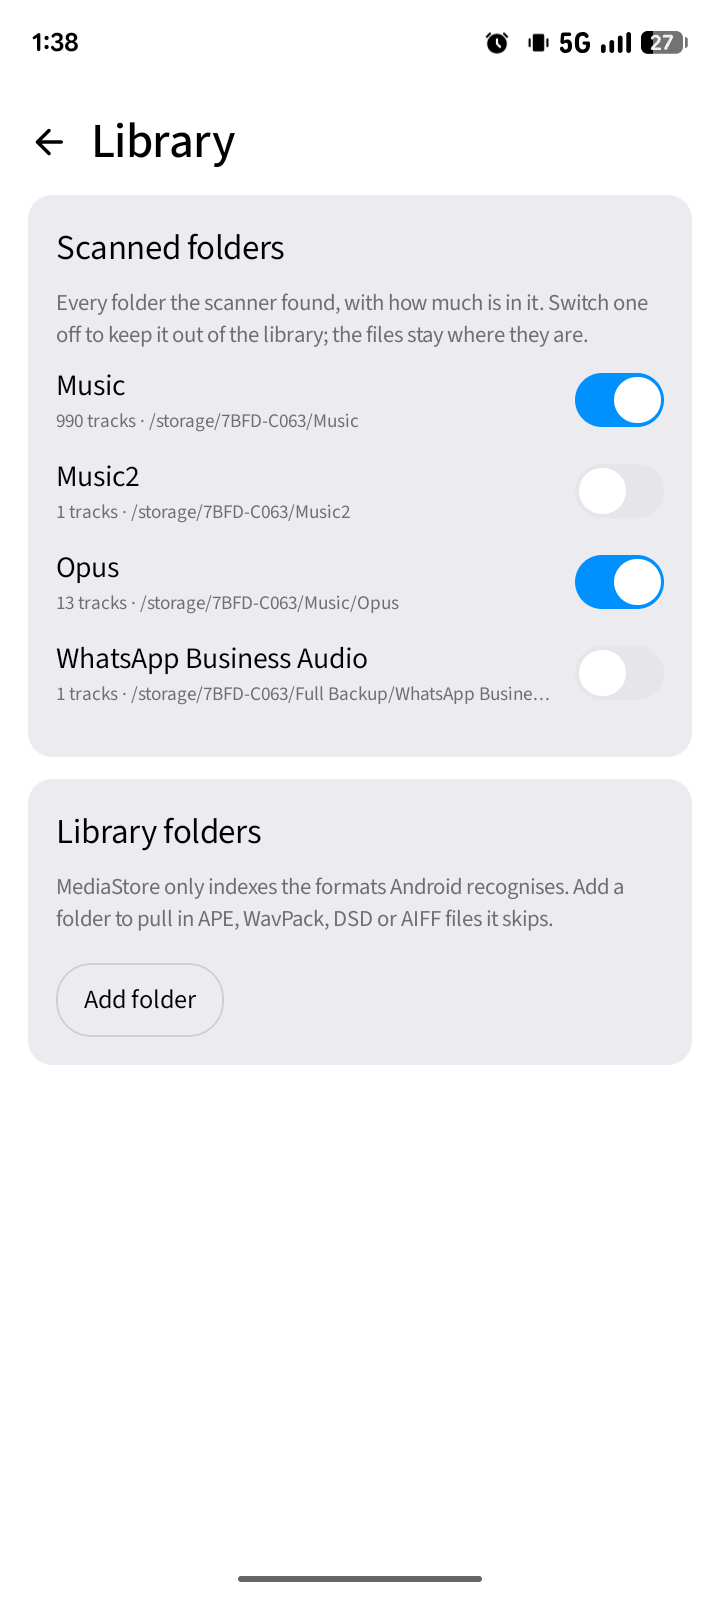
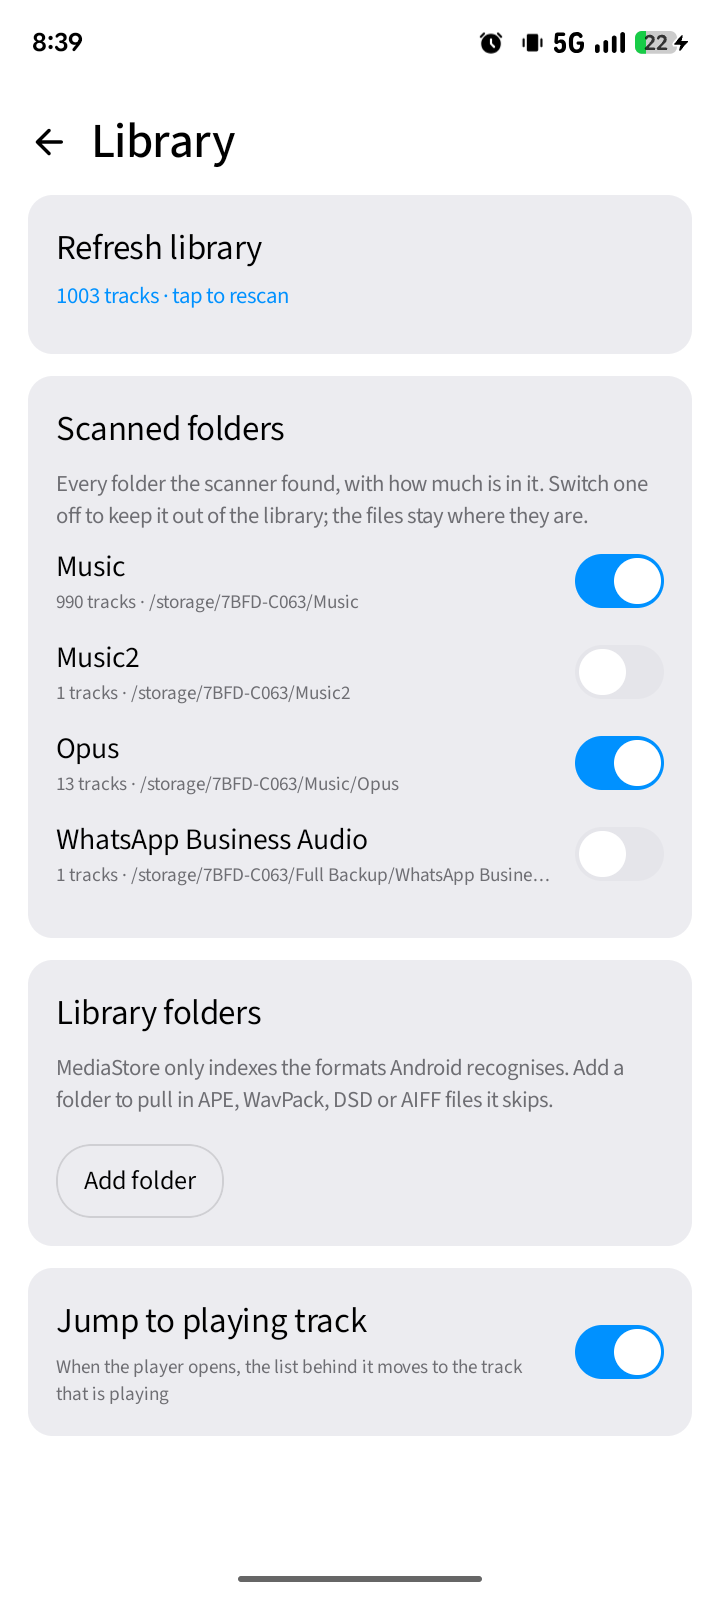
docs: the library settings screen, with refresh and jump
The old shot predates both cards: Refresh library at the top and Jump to playing track at the
bottom. Same file name, so the README link and its place in the row are unchanged.

diff --git a/README.md b/README.md
@@ -23,7 +23,7 @@ and stays out of your way while it does it.
   <tr>
     <td align="center"><img src="docs/screenshots/ui-customisation.png" width="240"><br><sub><b>UI &amp; Customisation</b> — accent, font, icon</sub></td>
     <td align="center"><img src="docs/screenshots/album.png" width="240"><br><sub><b>Album</b> — cover, year, tracklist</sub></td>
-    <td align="center"><img src="docs/screenshots/library-folders.png" width="240"><br><sub><b>Folders</b> — what gets scanned</sub></td>
+    <td align="center"><img src="docs/screenshots/library-folders.png" width="240"><br><sub><b>Library</b> — folders, rescan, jump</sub></td>
   </tr>
   <tr>
     <td align="center"><img src="docs/screenshots/search.png" width="240"><br><sub><b>Search</b> — matches highlighted</sub></td>
